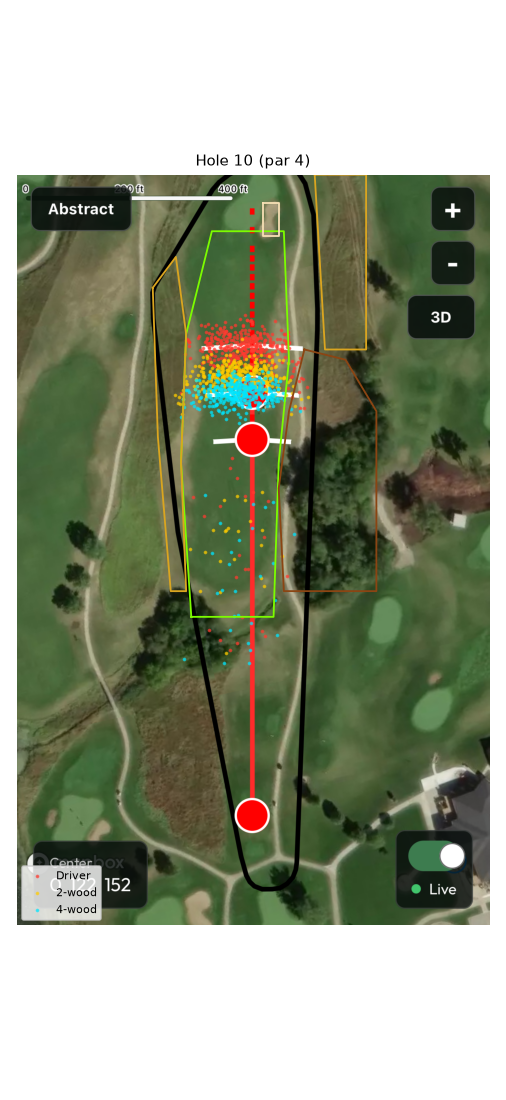
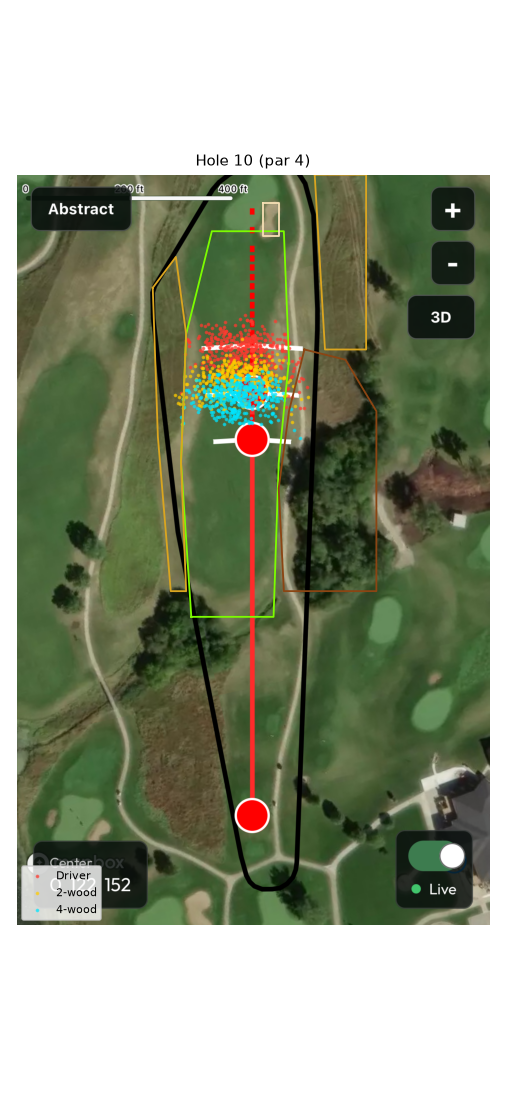
Treat mishits as slight (3-8% short carry, 15% of swings), not tops
Claude-Session: https://claude.ai/code/session_011rKvZuUcU769YfPfktPsds

Changed region(s): [[0.3854, 0.3091, 0.5632, 0.4018], [0.4447, 0.4945, 0.4743, 0.5255]]

diff --git a/mozingo/tee_strategy.py b/mozingo/tee_strategy.py
@@ -43,10 +43,11 @@ IRONS = {
     "Long iron": (210, 220, 40, 20),
     "Mid iron": (185, 192, 34, 18),
 }
-# Mishits (thin / topped / heel) that fall outside the normal shot pattern:
-# chance per swing, and they carry MISHIT_CARRY of the normal carry.
-MISHIT_RATE = {"Driver": 0.05, "2-wood": 0.05, "4-wood": 0.05, "Long iron": 0.03, "Mid iron": 0.03}
-MISHIT_CARRY = (0.35, 0.75)
+# Slight mishits / into-wind swings (no tops or chunks, as in Fawcett's patterns):
+# chance per swing, and they carry MISHIT_CARRY of the normal carry
+# (e.g. a 275 driver carry comes up 255-265).
+MISHIT_RATE = {"Driver": 0.15, "2-wood": 0.15, "4-wood": 0.15, "Long iron": 0.15, "Mid iron": 0.15}
+MISHIT_CARRY = (0.92, 0.97)
 ROUGH_ROLL = 0.3    # share of remaining roll kept once the ball is in rough
 HAZARDS = ("sand", "recovery", "native", "water")   # ball stops where it lands/enters
 

diff --git a/mozingo/stats.py b/mozingo/stats.py
@@ -64,7 +64,7 @@ def robustness(rng):
     wins = {h: {c: 0 for c in t.clubs_for(h)} for h in holes0}
     for _ in range(N_SCEN):
         t.CLUBS, t.IRONS, t.HOLES, t.TREE_SEVERITY, t.NATIVE_LOST = perturbed_world(rng, holes0, clubs0, irons0)
-        f = rng.uniform(0.4, 2.0)                              # mishit rate anywhere from 2% to 10%
+        f = rng.uniform(0.4, 2.0)                              # slight-mishit rate anywhere from 6% to 30%
         t.MISHIT_RATE = {c: r * f for c, r in mis0.items()}
         z = np.vstack([rng.standard_normal((2, SCEN_SHOTS)), rng.random((2, SCEN_SHOTS))])
         for h in holes0:

diff --git a/mozingo/output/results_table.md b/mozingo/output/results_table.md
@@ -1,46 +1,46 @@
 | Hole | Par | Club | Aim (yds, +R) | Approach left | Fairway | Rough | Sand | Trees | Native | Water | Exp. score | vs best |
 |---|---|---|---|---|---|---|---|---|---|---|---|---|
-| 1 | 4 | Driver | +2.5 | 76 | 74% | 19% | 0% | 7% | 0% | 0% | 3.881 | +0.024 |
-| 1 | 4 | 2-wood | +2.5 | 94 | 84% | 14% | 0% | 2% | 0% | 0% | 3.862 | +0.006 |
-| 1 | 4 | 4-wood **<- play** | +2.5 | 103 | 90% | 10% | 0% | 0% | 0% | 0% | 3.857 | +0.000 |
-| 2 | 4 | Driver | -10.0 | 60 | 71% | 13% | 12% | 3% | 1% | 0% | 3.837 | +0.026 |
-| 2 | 4 | 2-wood | -10.0 | 74 | 80% | 10% | 7% | 3% | 0% | 0% | 3.846 | +0.035 |
-| 2 | 4 | 4-wood **<- play** | -5.0 | 82 | 91% | 6% | 2% | 1% | 0% | 0% | 3.811 | +0.000 |
-| 3 | 5 | Driver **<- play** | -12.5 | 219 | 89% | 9% | 0% | 2% | 0% | 0% | 4.368 | +0.000 |
-| 3 | 5 | 2-wood | -17.5 | 239 | 94% | 5% | 0% | 1% | 0% | 0% | 4.472 | +0.103 |
-| 3 | 5 | 4-wood | -17.5 | 248 | 97% | 3% | 0% | 0% | 0% | 0% | 4.522 | +0.154 |
-| 4 | 4 | Driver **<- play** | +0.0 | 64 | 86% | 14% | 0% | 0% | 0% | 0% | 3.764 | +0.000 |
-| 4 | 4 | 2-wood | +0.0 | 83 | 88% | 11% | 0% | 0% | 0% | 0% | 3.810 | +0.045 |
-| 4 | 4 | 4-wood | +0.0 | 92 | 92% | 8% | 0% | 0% | 0% | 0% | 3.824 | +0.060 |
-| 6 | 5 | Driver **<- play** | -5.0 | 193 | 96% | 2% | 1% | 0% | 1% | 0% | 4.197 | +0.000 |
-| 6 | 5 | 2-wood | -10.0 | 213 | 95% | 2% | 2% | 0% | 1% | 0% | 4.316 | +0.120 |
-| 6 | 5 | 4-wood | -12.5 | 223 | 97% | 1% | 1% | 0% | 0% | 0% | 4.367 | +0.171 |
-| 7 | 4 | Driver | +2.5 | 133 | 74% | 3% | 0% | 23% | 0% | 0% | 4.128 | +0.073 |
-| 7 | 4 | 2-wood | +5.0 | 151 | 81% | 4% | 0% | 15% | 0% | 0% | 4.111 | +0.056 |
-| 7 | 4 | 4-wood **<- play** | +7.5 | 160 | 92% | 4% | 0% | 4% | 0% | 0% | 4.055 | +0.000 |
-| 9 | 4 | Driver **<- play** | +2.5 | 53 | 89% | 8% | 0% | 0% | 2% | 1% | 3.743 | +0.000 |
-| 9 | 4 | 2-wood | +5.0 | 71 | 93% | 5% | 0% | 0% | 1% | 1% | 3.790 | +0.047 |
-| 9 | 4 | 4-wood | +5.0 | 81 | 95% | 3% | 0% | 0% | 0% | 2% | 3.802 | +0.059 |
-| 10 | 4 | Driver **<- play** | -5.0 | 92 | 92% | 4% | 0% | 2% | 2% | 0% | 3.855 | +0.000 |
-| 10 | 4 | 2-wood | -7.5 | 111 | 94% | 3% | 0% | 1% | 1% | 0% | 3.889 | +0.033 |
-| 10 | 4 | 4-wood | -7.5 | 120 | 97% | 2% | 0% | 1% | 0% | 0% | 3.895 | +0.040 |
-| 12 | 5 | Driver **<- play** | +0.0 | 229 | 79% | 16% | 5% | 0% | 0% | 0% | 4.446 | +0.000 |
-| 12 | 5 | 2-wood | -10.0 | 247 | 84% | 7% | 9% | 0% | 0% | 0% | 4.557 | +0.112 |
-| 12 | 5 | 4-wood | -12.5 | 255 | 89% | 5% | 6% | 0% | 0% | 0% | 4.590 | +0.145 |
-| 13 | 4 | Driver **<- play** | +2.5 | 104 | 75% | 22% | 0% | 3% | 0% | 0% | 3.921 | +0.000 |
-| 13 | 4 | 2-wood | +2.5 | 120 | 87% | 10% | 0% | 3% | 0% | 0% | 3.927 | +0.006 |
-| 13 | 4 | 4-wood | +2.5 | 128 | 94% | 5% | 0% | 1% | 0% | 0% | 3.922 | +0.001 |
-| 14 | 5 | Driver **<- play** | +5.0 | 164 | 93% | 7% | 0% | 0% | 0% | 0% | 4.051 | +0.000 |
-| 14 | 5 | 2-wood | +2.5 | 184 | 95% | 5% | 0% | 0% | 0% | 0% | 4.141 | +0.090 |
-| 14 | 5 | 4-wood | +2.5 | 194 | 97% | 3% | 0% | 0% | 0% | 0% | 4.189 | +0.137 |
-| 16 | 4 | Driver | -5.0 | 137 | 78% | 10% | 0% | 12% | 0% | 0% | 4.061 | +0.010 |
-| 16 | 4 | 2-wood **<- play** | -7.5 | 155 | 86% | 11% | 0% | 3% | 0% | 0% | 4.051 | +0.000 |
-| 16 | 4 | 4-wood | -10.0 | 165 | 92% | 7% | 0% | 1% | 0% | 0% | 4.059 | +0.008 |
-| 17 | 4 | Driver **<- play** | -7.5 | 49 | 89% | 7% | 1% | 0% | 4% | 0% | 3.720 | +0.000 |
-| 17 | 4 | 2-wood | -7.5 | 67 | 92% | 4% | 0% | 0% | 4% | 0% | 3.784 | +0.064 |
-| 17 | 4 | 4-wood | -2.5 | 75 | 94% | 2% | 0% | 0% | 4% | 0% | 3.801 | +0.081 |
-| 17 | 4 | Long iron | +15.0 | 124 | 97% | 0% | 0% | 0% | 3% | 0% | 3.902 | +0.182 |
-| 17 | 4 | Mid iron | +27.5 | 154 | 96% | 1% | 0% | 0% | 2% | 0% | 3.997 | +0.277 |
-| 18 | 4 | Driver **<- play** | -15.0 | 102 | 83% | 11% | 0% | 6% | 0% | 0% | 3.913 | +0.000 |
-| 18 | 4 | 2-wood | +0.0 | 129 | 85% | 1% | 0% | 14% | 0% | 0% | 4.030 | +0.117 |
-| 18 | 4 | 4-wood | +5.0 | 138 | 89% | 1% | 0% | 10% | 0% | 0% | 4.023 | +0.110 |
+| 1 | 4 | Driver | +2.5 | 77 | 77% | 16% | 0% | 7% | 0% | 0% | 3.850 | +0.024 |
+| 1 | 4 | 2-wood | +2.5 | 95 | 87% | 11% | 0% | 2% | 0% | 0% | 3.832 | +0.005 |
+| 1 | 4 | 4-wood **<- play** | +2.5 | 104 | 94% | 6% | 0% | 0% | 0% | 0% | 3.827 | +0.000 |
+| 2 | 4 | Driver | -10.0 | 61 | 74% | 10% | 12% | 3% | 1% | 0% | 3.816 | +0.031 |
+| 2 | 4 | 2-wood | -7.5 | 75 | 84% | 5% | 8% | 2% | 1% | 0% | 3.818 | +0.032 |
+| 2 | 4 | 4-wood **<- play** | -5.0 | 83 | 95% | 2% | 2% | 1% | 0% | 0% | 3.785 | +0.000 |
+| 3 | 5 | Driver **<- play** | -12.5 | 220 | 89% | 8% | 0% | 2% | 0% | 0% | 4.359 | +0.000 |
+| 3 | 5 | 2-wood | -17.5 | 240 | 94% | 5% | 0% | 1% | 0% | 0% | 4.468 | +0.109 |
+| 3 | 5 | 4-wood | -17.5 | 249 | 98% | 2% | 0% | 0% | 0% | 0% | 4.521 | +0.162 |
+| 4 | 4 | Driver **<- play** | +0.0 | 65 | 89% | 11% | 0% | 0% | 0% | 0% | 3.738 | +0.000 |
+| 4 | 4 | 2-wood | +0.0 | 84 | 91% | 9% | 0% | 0% | 0% | 0% | 3.782 | +0.044 |
+| 4 | 4 | 4-wood | +0.0 | 93 | 96% | 4% | 0% | 0% | 0% | 0% | 3.796 | +0.057 |
+| 6 | 5 | Driver **<- play** | -7.5 | 194 | 96% | 2% | 2% | 0% | 1% | 0% | 4.186 | +0.000 |
+| 6 | 5 | 2-wood | -10.0 | 214 | 96% | 1% | 3% | 0% | 1% | 0% | 4.305 | +0.120 |
+| 6 | 5 | 4-wood | -12.5 | 224 | 98% | 0% | 1% | 0% | 0% | 0% | 4.358 | +0.172 |
+| 7 | 4 | Driver | +2.5 | 134 | 74% | 2% | 0% | 23% | 0% | 0% | 4.109 | +0.082 |
+| 7 | 4 | 2-wood | +5.0 | 152 | 84% | 3% | 0% | 14% | 0% | 0% | 4.077 | +0.050 |
+| 7 | 4 | 4-wood **<- play** | +7.5 | 161 | 94% | 2% | 0% | 4% | 0% | 0% | 4.027 | +0.000 |
+| 9 | 4 | Driver **<- play** | +2.5 | 54 | 92% | 5% | 0% | 0% | 2% | 0% | 3.708 | +0.000 |
+| 9 | 4 | 2-wood | +5.0 | 73 | 97% | 2% | 0% | 0% | 1% | 0% | 3.749 | +0.041 |
+| 9 | 4 | 4-wood | +5.0 | 82 | 99% | 0% | 0% | 0% | 0% | 0% | 3.759 | +0.051 |
+| 10 | 4 | Driver **<- play** | -5.0 | 93 | 93% | 3% | 0% | 2% | 2% | 0% | 3.833 | +0.000 |
+| 10 | 4 | 2-wood | -7.5 | 112 | 96% | 1% | 0% | 1% | 1% | 0% | 3.865 | +0.032 |
+| 10 | 4 | 4-wood | -7.5 | 121 | 98% | 1% | 0% | 1% | 0% | 0% | 3.870 | +0.037 |
+| 12 | 5 | Driver **<- play** | -2.5 | 231 | 83% | 9% | 8% | 0% | 0% | 0% | 4.447 | +0.000 |
+| 12 | 5 | 2-wood | -12.5 | 250 | 90% | 2% | 8% | 0% | 0% | 0% | 4.551 | +0.103 |
+| 12 | 5 | 4-wood | -12.5 | 256 | 93% | 0% | 6% | 0% | 0% | 0% | 4.582 | +0.135 |
+| 13 | 4 | Driver | +2.5 | 105 | 76% | 21% | 0% | 3% | 0% | 0% | 3.899 | +0.001 |
+| 13 | 4 | 2-wood | +2.5 | 121 | 88% | 9% | 0% | 3% | 0% | 0% | 3.903 | +0.005 |
+| 13 | 4 | 4-wood **<- play** | +2.5 | 129 | 95% | 4% | 0% | 1% | 0% | 0% | 3.897 | +0.000 |
+| 14 | 5 | Driver **<- play** | +5.0 | 166 | 95% | 5% | 0% | 0% | 0% | 0% | 4.027 | +0.000 |
+| 14 | 5 | 2-wood | +2.5 | 185 | 98% | 2% | 0% | 0% | 0% | 0% | 4.120 | +0.093 |
+| 14 | 5 | 4-wood | +2.5 | 195 | 99% | 1% | 0% | 0% | 0% | 0% | 4.170 | +0.143 |
+| 16 | 4 | Driver | -5.0 | 138 | 79% | 10% | 0% | 11% | 0% | 0% | 4.033 | +0.005 |
+| 16 | 4 | 2-wood **<- play** | -7.5 | 156 | 87% | 9% | 0% | 4% | 0% | 0% | 4.027 | +0.000 |
+| 16 | 4 | 4-wood | -10.0 | 166 | 94% | 5% | 0% | 1% | 0% | 0% | 4.036 | +0.009 |
+| 17 | 4 | Driver **<- play** | -10.0 | 51 | 94% | 5% | 1% | 0% | 0% | 0% | 3.667 | +0.000 |
+| 17 | 4 | 2-wood | -10.0 | 69 | 98% | 2% | 0% | 0% | 0% | 0% | 3.727 | +0.060 |
+| 17 | 4 | 4-wood | -5.0 | 77 | 99% | 1% | 0% | 0% | 0% | 0% | 3.745 | +0.078 |
+| 17 | 4 | Long iron | +17.5 | 126 | 100% | 0% | 0% | 0% | 0% | 0% | 3.873 | +0.206 |
+| 17 | 4 | Mid iron | +27.5 | 154 | 99% | 1% | 0% | 0% | 0% | 0% | 3.966 | +0.299 |
+| 18 | 4 | Driver **<- play** | -12.5 | 104 | 82% | 8% | 0% | 10% | 0% | 0% | 3.928 | +0.000 |
+| 18 | 4 | 2-wood | +2.5 | 131 | 84% | 1% | 0% | 15% | 0% | 0% | 4.017 | +0.089 |
+| 18 | 4 | 4-wood | +7.5 | 140 | 90% | 1% | 0% | 9% | 0% | 0% | 3.996 | +0.068 |
